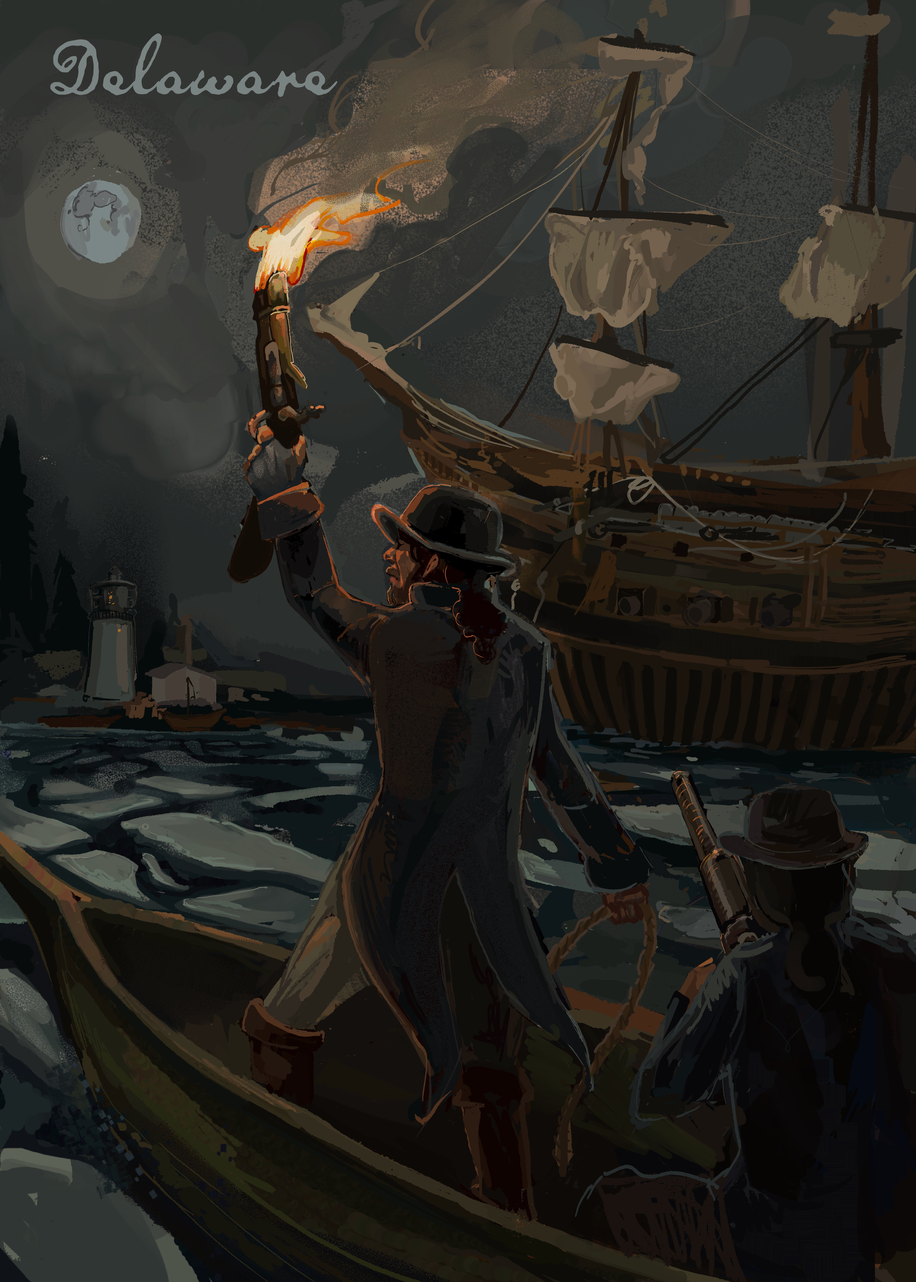
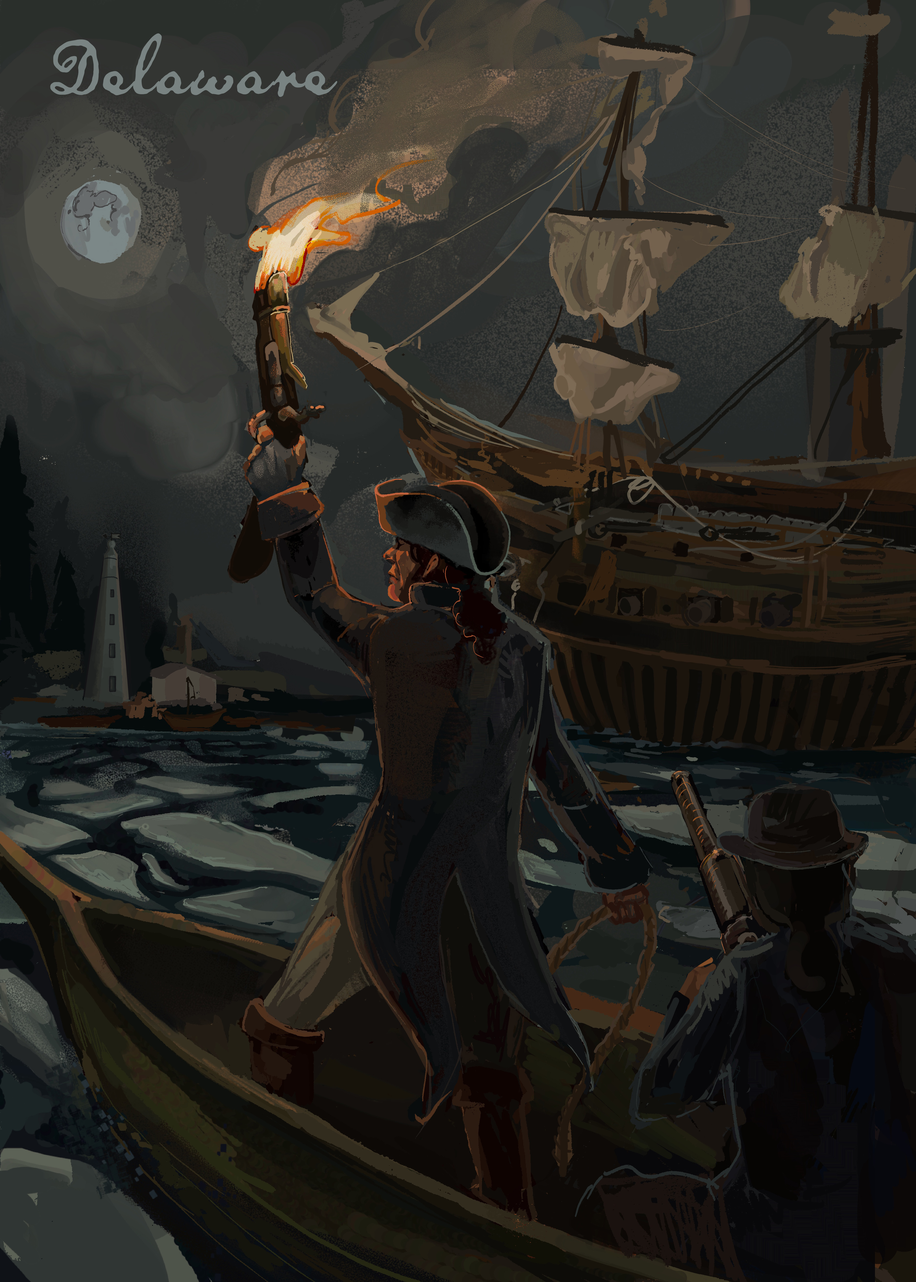
Add sponsor, fix delaware panel

Changed region(s): [[0.4056, 0.3749, 0.5616, 0.4686], [0.0936, 0.4373, 0.156, 0.5623]]

diff --git a/content/sponsors/fleur-de-paris/index.md b/content/sponsors/fleur-de-paris/index.md
@@ -1,0 +1,20 @@
+---
+name: "Fleur de Paris"
+tier: Bronze
+website: "https://www.fleurdeparis.com"
+---
+
+Fleur de Paris is renowned for its contributions to the needlepoint 
+and fine needle arts community. Established in 1975, the company has 
+built an exceptional reputation as a wholesale distributor and importer
+of premium-quality materials for cross-stitch, knitting, crochet, embroidery,
+and other needlework crafts. They distribute products such as Zweigart canvases, 
+DMC threads, Kreinik metallics, Anchor floss, and Appleton wool. Fleur de Paris is 
+celebrated for its exclusive partnerships with top designers,offering hand-painted canvas 
+designs from Trubey, Sandra Gilmore's "Once in a Blue Moon," Dede Needleworks, Machelle 
+Somerville, Sharon G., Creative Needle, Curtis Boehringer, and many others. 
+
+With decades of experience, Fleur de Paris has become synonymous with excellence in 
+needle arts. Their dedication to quality and innovation has earned them a trusted 
+reputation among hobbyists and retailers alike. 
+
